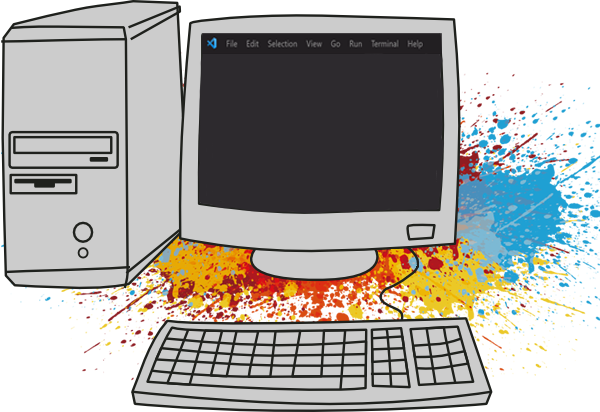
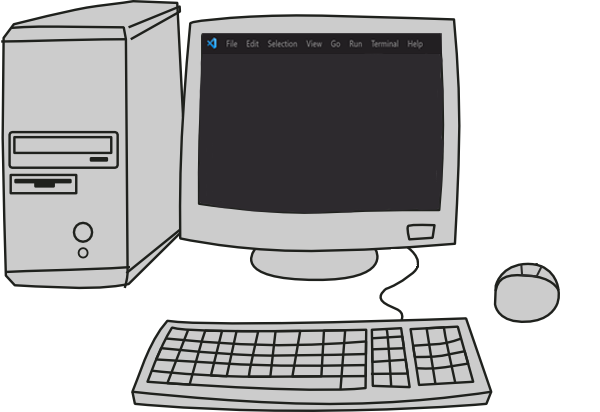
change in pictures

Changed region(s): [[0.09, 0.233, 1.0, 0.9029], [0.99, 0.7573, 1.0, 0.7864], [0.99, 0.699, 1.0, 0.7282]]

diff --git a/index.html b/index.html
@@ -35,7 +35,7 @@
             <button class="shadow__btn background" onclick="downloadFile('pictures/resume.pdf')">Download CV</button>
         </div>
         <div class="pictures">
-            <img src="pictures/mouse.png" class="shape">
+           
             <img src="pictures/thankyoumsg.png"  class="shape">
             <img src="pictures/vscodeBlank.png" id="shape3" class="shape">
             <img src="pictures/pcVscodeOnly.png" id="shape2" class="shape">
